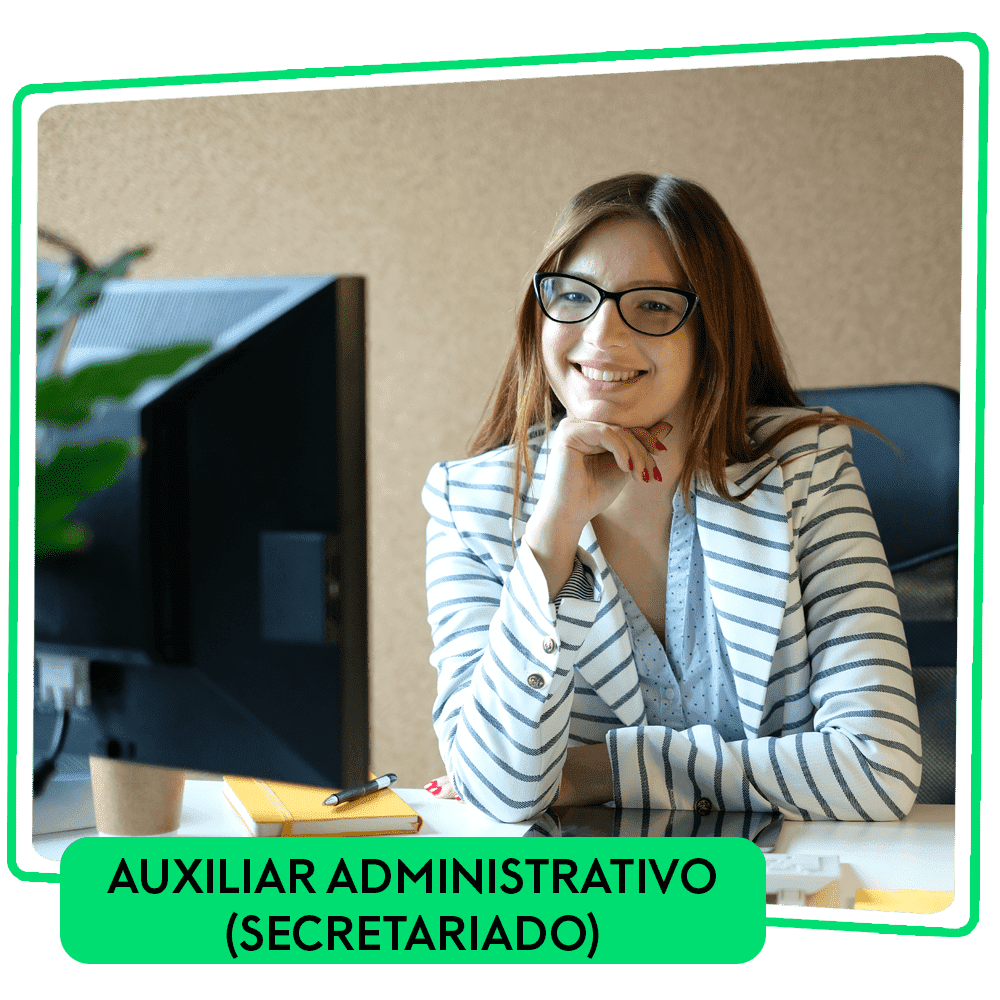
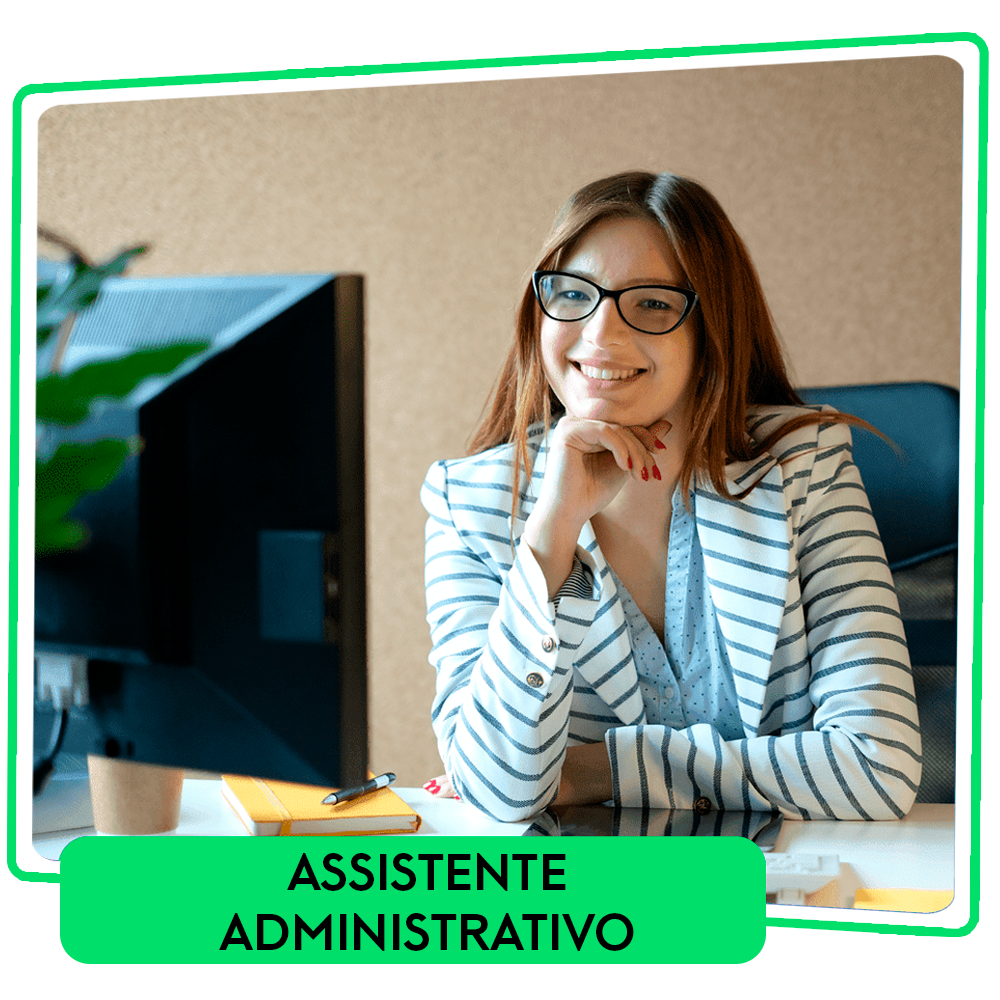
atualização

diff --git a/assistenteAdministrativo.html b/assistenteAdministrativo.html
@@ -90,7 +90,7 @@
         <div class="col-md-5">
             <div class="display-flex centralizar">
                 <div>
-                    <h1 class="title-cursos wow fadeInLeft delay-02s"><b>AUXILIAR ADMINISTRATIVO (SECRETARIADO)</b></h1>
+                    <h1 class="title-cursos wow fadeInLeft delay-02s"><b>ASSISTENTE ADMINISTRATIVO</b></h1>
                     <h2 class="subtitle-cursos wow fadeInLeft delay-04s">Essa formação tem o objetivo de capacitar o
                         aluno a projetar, documentar, específicar e implantar nas empresas, ferramentas para gestão e
                         manutenção de equipes.</h2>
@@ -110,7 +110,7 @@
     <div class="container row fadeIn delay-02s centralizar background-green-salarial">
         <div class="col-md-4">
             <img src="./img/Icones/icon.png" class="icone-icon wow fadeInDown delay-02s">
-            <h1 class="color-white-salarial"><b class="title-salarial wow fadeIn delay-04s">Quanto ganha um auxiliar administrativo?</b></h1><br>
+            <h1 class="color-white-salarial"><b class="title-salarial wow fadeIn delay-04s">Quanto ganha um Assistente Administrativo?</b></h1><br>
         </div>
         <div class="col-md-4 wow fadeInDown delay-08s">
             <svg width="100%" height="260" viewBox="0 -20 275 177" version="1.1" xmlns="http://www.w3.org/2000/svg">

diff --git a/js/pesquisa.js b/js/pesquisa.js
@@ -81,9 +81,9 @@ function searchPage() {
     "farmacia e drogaria": "atendenteFarmacia.html",
     "farmacia": "atendenteFarmacia.html",
 
-    "auxiliar administrativo": "auxiliarAdministrativo.html",
-    "administracao": "auxiliarAdministrativo.html",
-    "adm": "auxiliarAdministrativo.html",
+    "assistente administrativo": "assistenteAdministrativo.html",
+    "administracao": "assistenteAdministrativo.html",
+    "adm": "assistenteAdministrativo.html",
 
     "auxiliar de escritorio": "auxiliarEscritorio.html",
     "escritorio": "auxiliarEscritorio.html",

diff --git a/informaticaComRotinas.html b/informaticaComRotinas.html
@@ -520,7 +520,7 @@
         </div>
         <div class="row centralizar">
             <div class="col-md-5 wow fadeInLeft delay-02s">
-                <h1 class="title-align-left"><b>Informática Aplicada</b></h1>
+                <h1 class="title-align-left"><b>Introdução a Informática</b></h1>
                 <h2 class="text-align-left">Aprender os conceitos básicos de informática ajuda a desenvolver
                     alfabetização digital, permitindo que você compreenda e utilize tecnologias de maneira eficaz.</h2>
             </div>

diff --git a/cursos.html b/cursos.html
@@ -208,7 +208,7 @@
                         <img src="./img/Selos/Professional.png" class="selo-curso wow fadeIn delay-02s">
                     </div>
                 </a>
-                <a href="auxiliarAdministrativo.html">
+                <a href="assistenteAdministrativo.html">
                     <div class="col-md-12">
                         <img src="./img/Cursos/auxiliarAdministrativo.png"
                             class="img-cursos wow fadeIn delay-03s">
